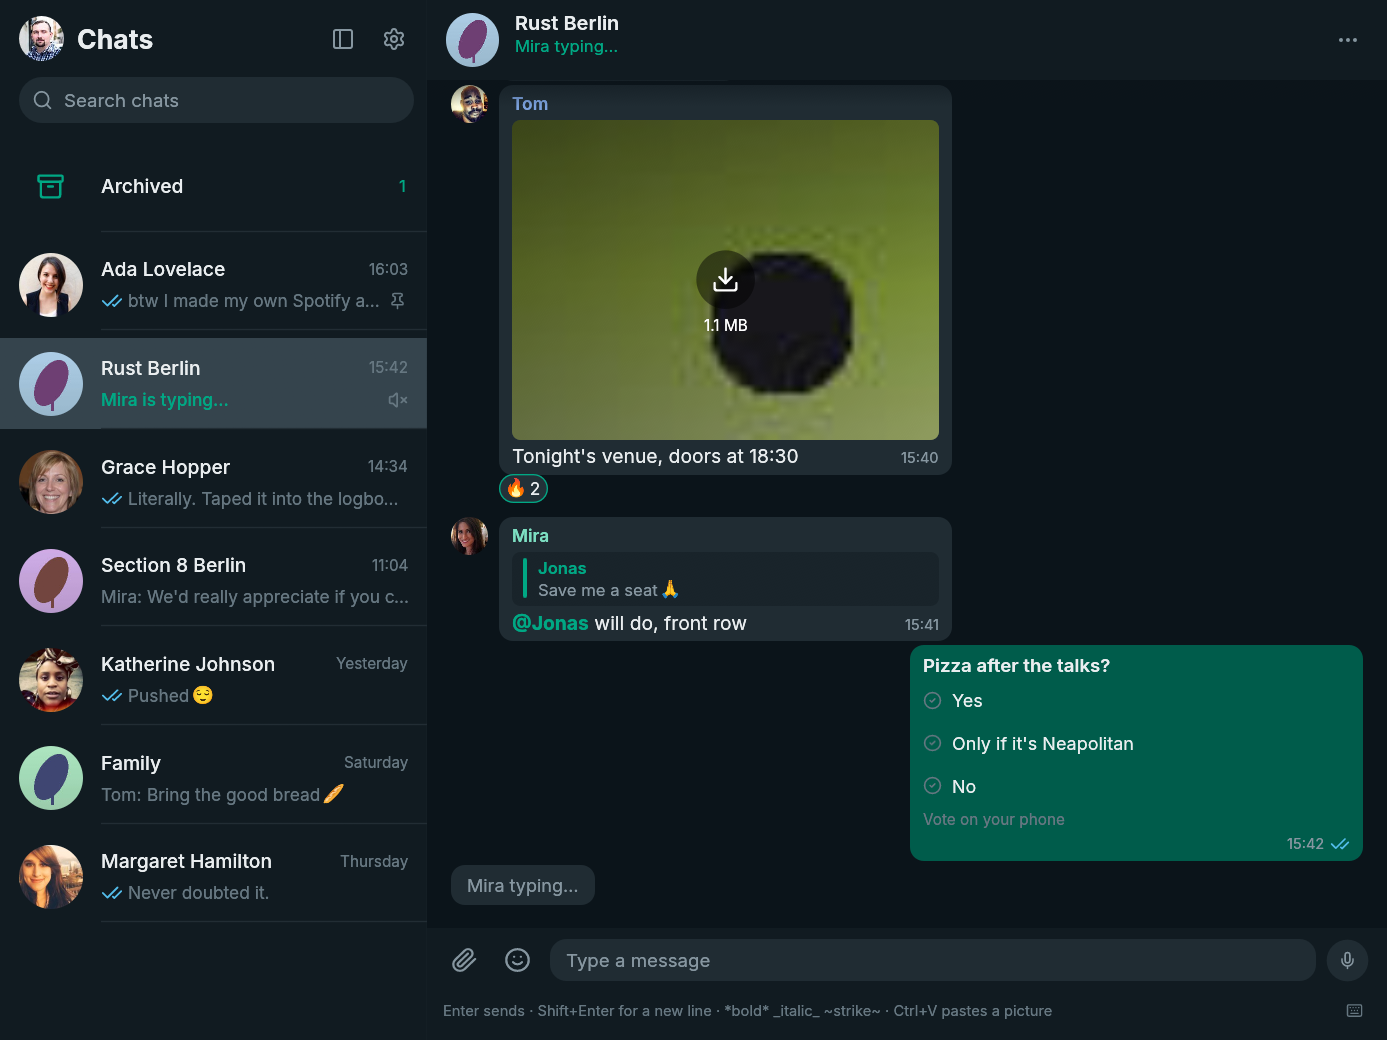
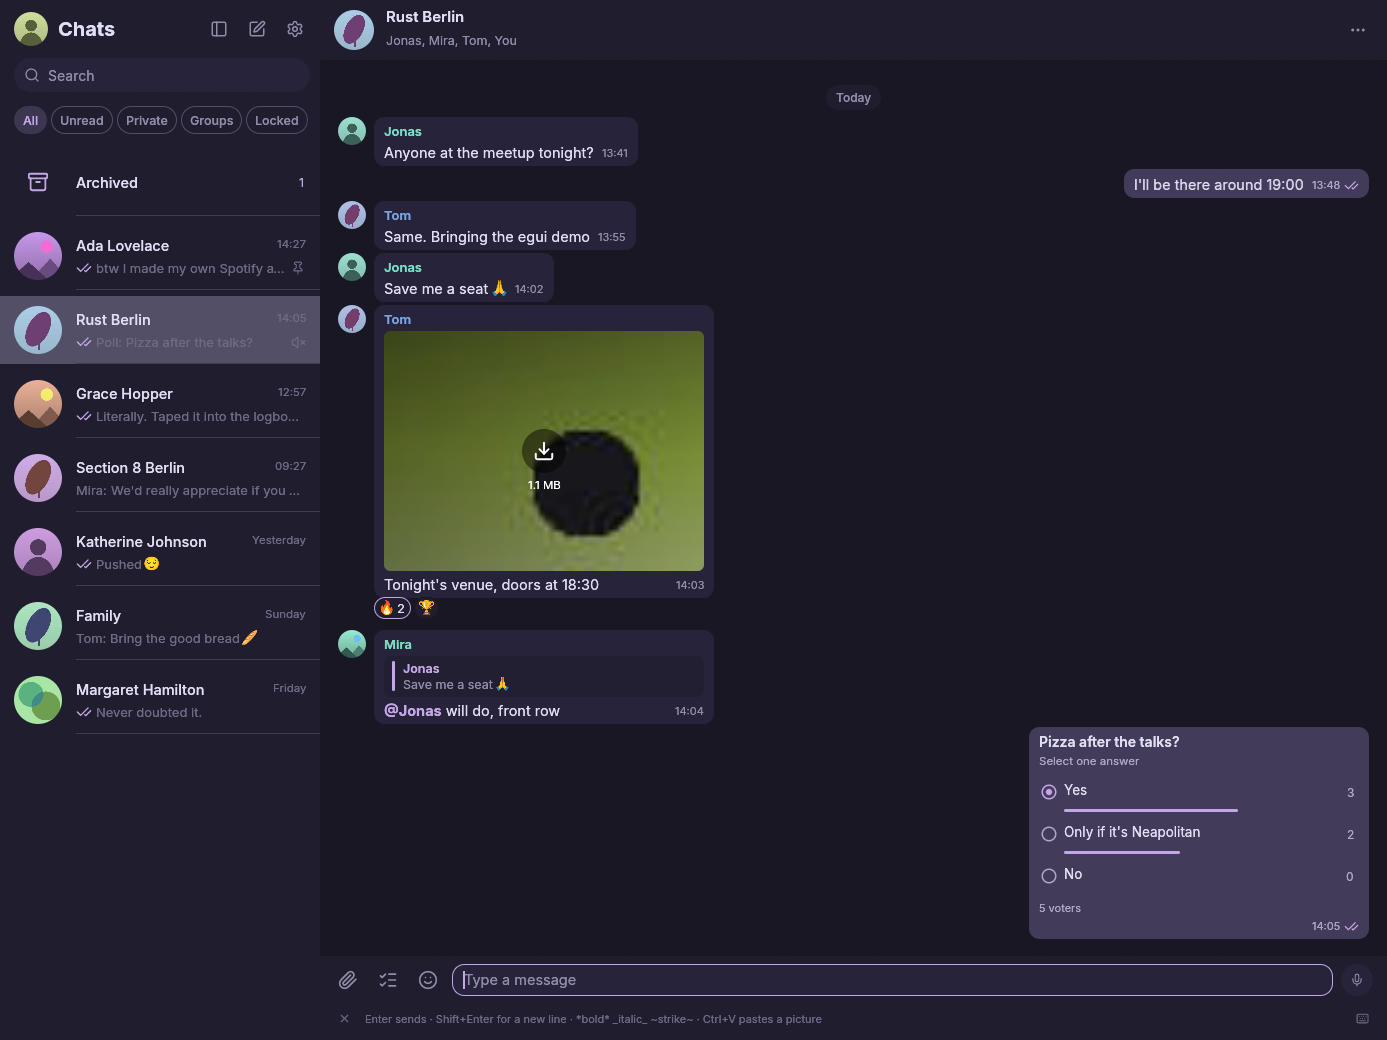
docs: refresh ZapFast screenshots

diff --git a/README.md b/README.md
@@ -11,11 +11,11 @@ WhatsApp Web and its Chromium processes. [See the measurements](https://zapfast.
 ZapFast is a sibling of [Spotifast](https://spotifast.rocks),
 with the same native UI for a different service.
 
-![ZapFast showing a chat with a photo, a document, a voice message, a quoted reply, and a link](docs/screenshot.png)
+![ZapFast showing a conversation with an attachment, voice messages, reactions, a quoted reply, and a link preview](docs/screenshot.png)
 
 See **[zapfast.rocks](https://zapfast.rocks)** for downloads and guides.
 
-![A group chat with sender names and pictures, a photo with reactions, a reply with a mention, and a poll](docs/screenshot-group.png)
+![A titled group chat with participant names, reactions, a quoted mention, and a poll](docs/screenshot-group.png)
 
 ![The linking screen with the QR code](docs/screenshot-link.png)
 

diff --git a/docs/_guide/what-is-zapfast.md b/docs/_guide/what-is-zapfast.md
@@ -16,7 +16,7 @@ In our Linux test, it opened in under a second and used about 150 MB of idle
 RAM, compared with 1.13 GB for WhatsApp Web and its Chromium processes.
 [See the measurements](/benchmarks/).
 
-![ZapFast showing a chat with a photo, a voice message, and a link preview](/screenshot.png)
+![ZapFast showing a conversation with an attachment, voice messages, reactions, a quoted reply, and a link preview](/screenshot.png)
 
 ## What it does
 

diff --git a/docs/index.md b/docs/index.md
@@ -19,7 +19,7 @@ hero:
       link: https://github.com/crmne/zapfast
   image:
     src: /screenshot.png
-    alt: "ZapFast showing a chat with a photo, a document, a voice message, a quoted reply, and a link preview"
+    alt: "ZapFast showing a conversation with an attachment, voice messages, reactions, a quoted reply, and a link preview"
     width: 1387
     height: 1040
 
